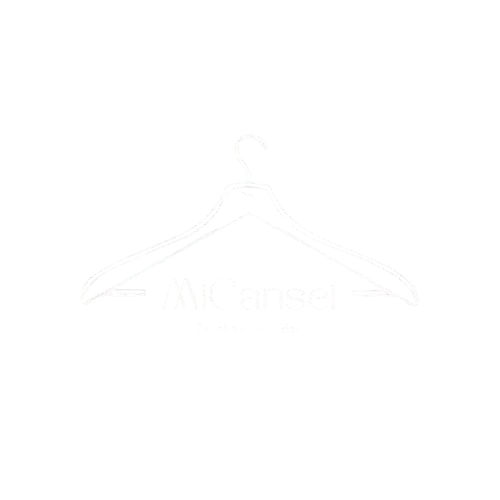
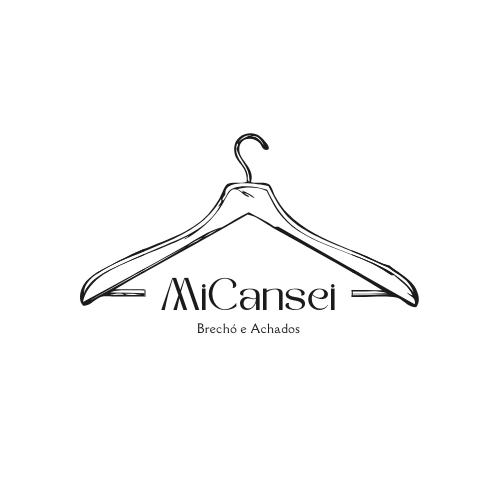
att site final

Changed region(s): [[0.15, 0.27, 0.84, 0.69]]

diff --git a/src/style.css b/src/style.css
@@ -13,7 +13,7 @@ body {
 
 .navbar {
     background-color: rgb(0, 0, 0);
-    padding: 16px;
+    padding: 32px;
 }
 
 .navbar ul {
@@ -96,22 +96,6 @@ section {
     text-decoration: none;
 }
 
-.logo {
-    position: relative;
-    width: 100px;
-    height: 100px;
-    left: 80px;
-    bottom: 190px;
-
-}
-
-.logo img {
-
-    width: 270px;
-    height: 270px;
-    max-width: fit-content;
-}
-
 #contato {
     color: white;
     position: fixed;
@@ -181,3 +165,13 @@ section {
   #prev-button {
     transform: rotate(180deg);
   }
+
+.logo {
+    display: flex;
+    position: absolute;
+    top: 1px;
+    left: 1000px;
+    width: 500px;
+    height: 400px;
+
+}

diff --git a/index.html b/index.html
@@ -18,7 +18,9 @@
     </ul>
 
     </nav>
-
+    <div class="logo">
+    <img src="roupas/AXEIAKI_BRECHÓ-removebg-preview.png" alt="">  
+    </div>
 <header>
 
    
@@ -129,13 +131,12 @@
                 </form>
             </div>
         </section> 
-
-    
+   
 </body>
 
 <footer>
     <div class="rodape">
-        <p>&copy; 2025 - MiCansei | Brechó e achados- Todos os direitos reservados</p>
+        <p>&copy; 2025 - MiCansei | Brechó e achados - Todos os direitos reservados</p>
     </div>
 </footer>
 </html>
